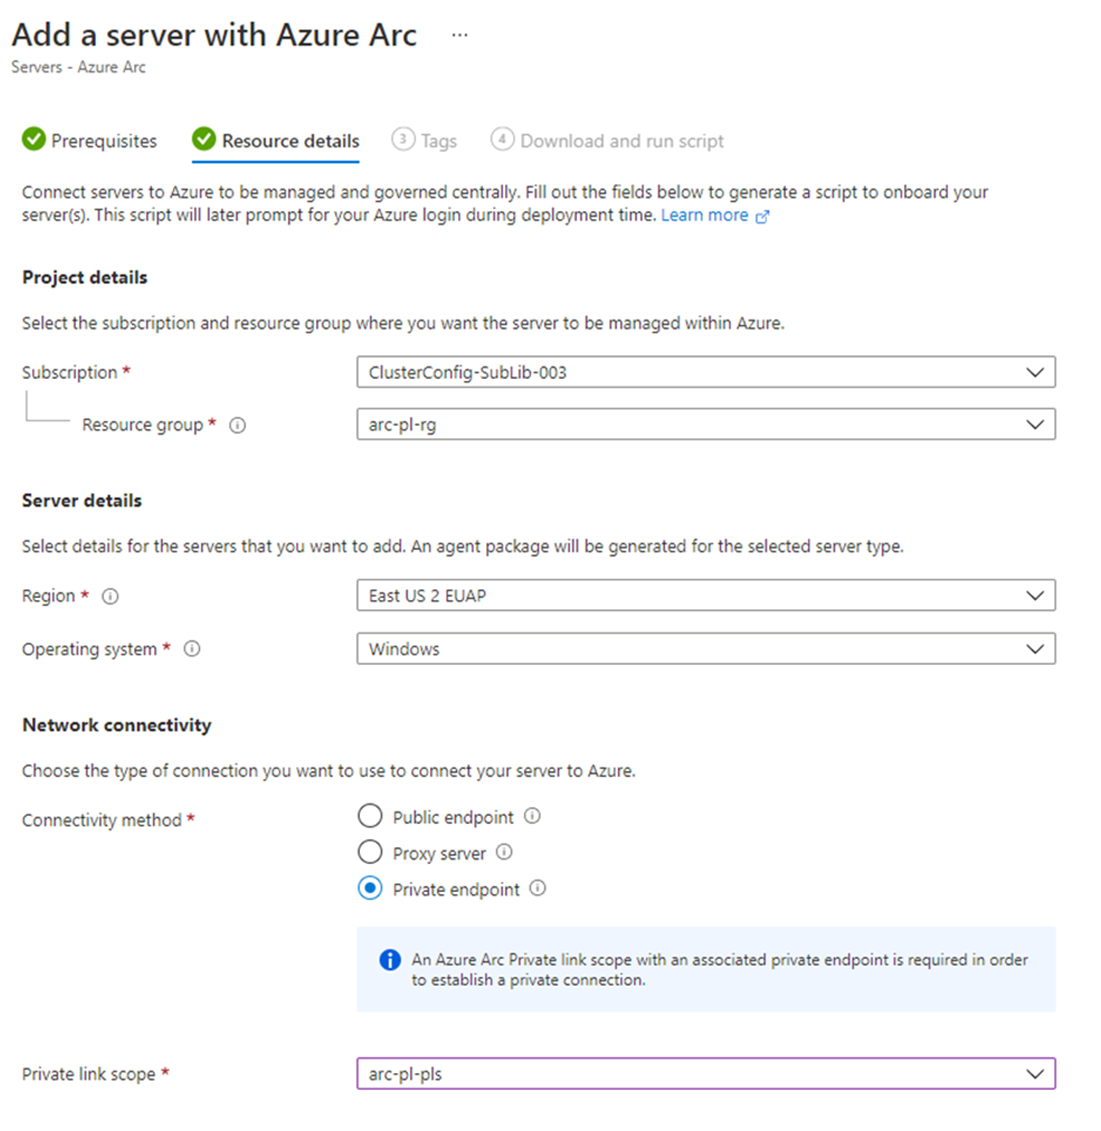
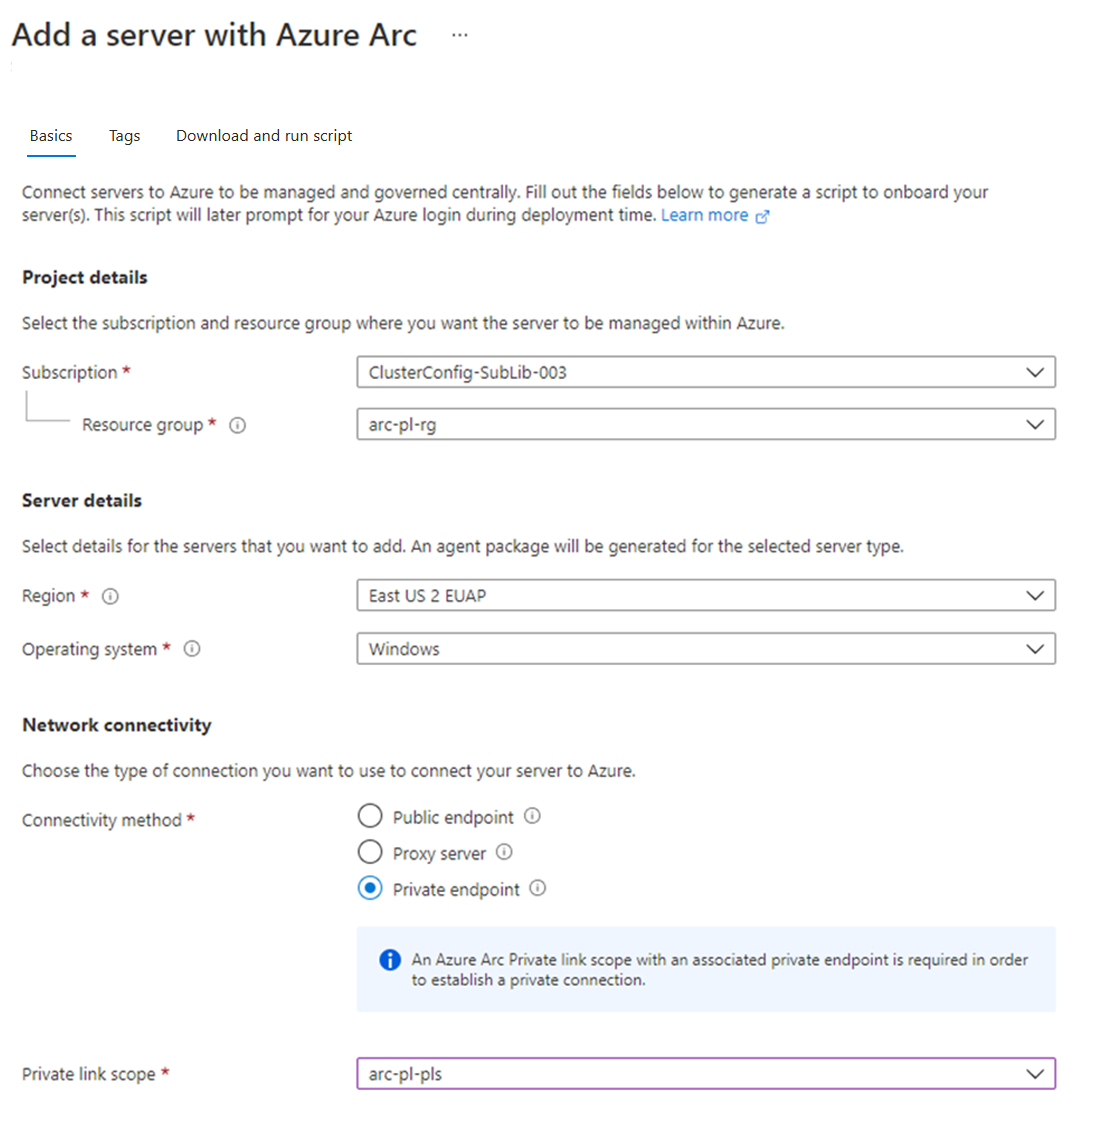
Additional refreshes

diff --git a/articles/azure-arc/servers/private-link-security.md b/articles/azure-arc/servers/private-link-security.md
@@ -236,22 +236,20 @@ When connecting a machine or server with Azure Arc-enabled servers for the first
 
 1. From your browser, go to the [Azure portal](https://portal.azure.com).
 
-1. Navigate to **Servers -Azure Arc**.
+1. Navigate to **Machines - Azure Arc**.
 
-1. On the **Servers - Azure Arc** page, select **Add** at the upper left.
+1. On the **Machines - Azure Arc** page, select **Add/Create** at the upper left, and then select **Add a machine** from the drop-down menu.
 
 1. On the **Add servers with Azure Arc** page, select either the **Add a single server** or **Add multiple servers** depending on your deployment scenario, and then select **Generate script**.
 
 1. On the **Generate script** page, select the subscription and resource group where you want the machine to be managed within Azure. Select an Azure location where the machine metadata will be stored. This location can be the same or different, as the resource group's location.
 
-1. On the **Prerequisites** page, review the information and then select **Next: Resource details**.
+1. On the **Basics** page, provide the following:
 
-1. On the **Resource details** page, provide the following:
-
-    1. In the **Resource group** drop-down list, select the resource group the machine will be managed from.
+    1. Select the **Subsciption** and **Resource group** for the machine.
     1. In the **Region** drop-down list, select the Azure region to store the machine or server metadata.
     1. In the **Operating system** drop-down list, select the operating system that the script is configured to run on.
-    1. Under **Network Connectivity**, select **Private endpoint** and select the Azure Arc Private Link Scope created in Part 1 from the drop-down list.
+    1. Under **Connectivity method**, select **Private endpoint** and select the Azure Arc Private Link Scope created in Part 1 from the drop-down list.
 
        :::image type="content" source="./media/private-link-security/arc-enabled-servers-create-script.png" alt-text="Selecting Private Endpoint connectivity option" border="true":::
 

diff --git a/articles/azure-arc/servers/learn/tutorial-enable-vm-insights.md b/articles/azure-arc/servers/learn/tutorial-enable-vm-insights.md
@@ -33,11 +33,11 @@ Sign in to the [Azure portal](https://portal.azure.com).--->
 
 ## Enable VM insights
 
-1. Launch the Azure Arc service in the Azure portal by clicking **All services**, then searching for and selecting **Servers - Azure Arc**.
+1. Launch the Azure Arc service in the Azure portal by clicking **All services**, then searching for and selecting **Machines - Azure Arc**.
 
     :::image type="content" source="./media/quick-enable-hybrid-vm/search-machines.png" alt-text="Screenshot of Azure portal showing search for Servers, Azure Arc." border="false":::
 
-1. On the **Azure Arc - Servers** page, select the connected machine you created in the [quickstart](quick-enable-hybrid-vm.md) article.
+1. On the **Azure Arc - Machines** page, select the connected machine you created in the [quickstart](quick-enable-hybrid-vm.md) article.
 
 1. From the left-pane under the **Monitoring** section, select **Insights** and then **Enable**.
 
